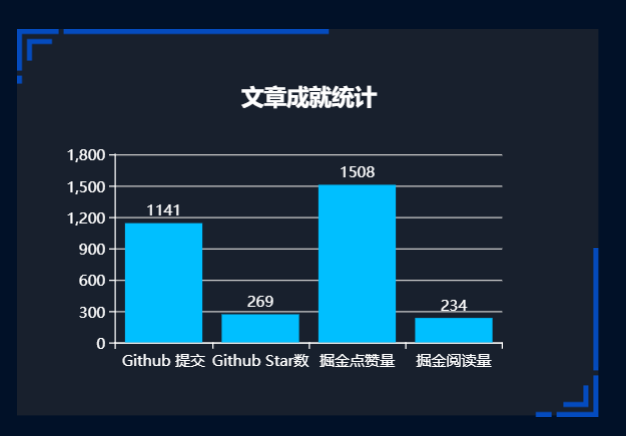
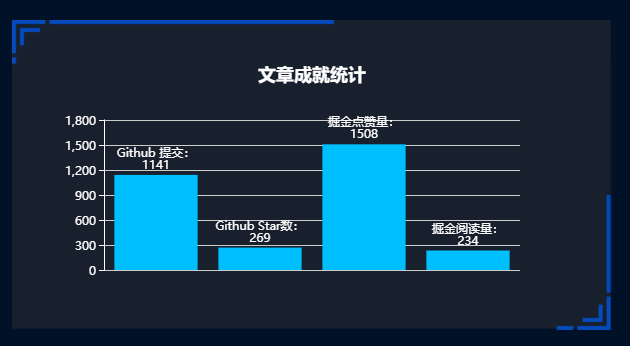
ECharts 打造在线个人简历

diff --git a/JavaScript-library/ECharts/CurriculumVitae.md b/JavaScript-library/ECharts/CurriculumVitae.md
@@ -506,7 +506,7 @@ new Vue({
 
 &emsp;该需要的东东，都差不多准备好了。  
 &emsp;那么，我们的简历，长啥样呢？  
-&emsp;由于手里木有成品 “参考”、“借鉴”，所以去网上看看别人的 ECharts 都长啥样吧：
+&emsp;由于手里木有成品 “参考” 和 “借鉴”，所以去网上看看别人的 ECharts 都长啥样吧：
 
 ![图](../../public-repertory/img/js-ECharts-CurriculumVitae-5.png)
 
@@ -546,6 +546,8 @@ new Vue({
 ```
 
 > 说到这里，有的小伙伴可能觉得复制粘贴或者手写 Vue-Cli 代码特别烦，所以这里推荐使用 VS Code 的插件：`Vue VSCode Snippets`。通过在页面上敲：`vbase`，就可以快速生成 Vue-Cli 的基础代码了。
+
+<br>
 
 &emsp;**然后**，我们在 `index.js` 中定义这些文件，并在 `App.vue` 引用它们：
 
@@ -849,6 +851,8 @@ export default {
 
 &emsp;话不多说，先上代码：
 
+> PartOne.vue
+
 ```
 <template>
   <div class="part-one">
@@ -917,6 +921,8 @@ p {
 
 &emsp;话不多说，先上代码：
 
+> PartTwo.vue
+
 ```
 <template>
   <div class="part-two" id="part-two"></div>
@@ -935,23 +941,32 @@ export default {
     return {};
   },
   mounted() {
-    this.drawTempMap();
+    this.drawECharts();
   },
   methods: {
-    drawTempMap() {
+    drawECharts() {
+
       // 基于准备好的dom，初始化echarts实例
       let myChart = echarts.init(document.getElementById("part-two"));
 
-      // 微信前端好友统计
-      // select: true 可以设置选定
-      let myFriendData = [
+      // 排行前五城市
+      let myFirendCity = [
+        { name: "广州", value: ["113.23", "23.16", "9"] },
+        { name: "深圳", value: ["114.07", "22.62", "12"] },
+        { name: "上海", value: ["121.48", "31.22", "10"] },
+        { name: "西安", value: ["108.95", "34.27", "4"] },
+        { name: "北京", value: ["116.46", "39.92", "12"] },
+      ];
+
+      // 好友分布省份
+      let myFriendProvince = [
         { name: "山东", value: 1 },
         { name: "四川", value: 1 },
         { name: "广东", value: 21 },
         { name: "广西", value: 1 },
         { name: "北京", value: 12 },
         { name: "甘肃", value: 1 },
-        { name: "上海", value: 5 },
+        { name: "上海", value: 10 },
         { name: "陕西", value: 4 },
         { name: "湖北", value: 1 },
         { name: "湖南", value: 1 },
@@ -963,40 +978,88 @@ export default {
         { name: "河南", value: 1 }
       ];
 
-      // 绘制图表
       myChart.setOption({
+        // 标题
         title: {
-          text: "前端微信好友分布",
+          text: "前端好友分布",
           textStyle: {
             color: "#fff"
           },
-          subtext: "jsliang 统计",
+          subtext: "微信统计",
           subtextStyle: {
             color: "#fff"
           },
           x: "center"
         },
-        // 移动显示条数
+        // 移动显示
         tooltip: {
-          trigger: "item"
+          trigger: "item",
+          // 鼠标移动过去显示
+          formatter: function(params) {
+            if (params.value[2] == undefined) {
+              if(!params.name) {
+                return "该地区暂无好友";
+              } else {
+                return params.name + " : " + params.value;
+              }
+            } else {
+              return params.name + " : " + params.value[2];
+            }
+          }
         },
-        // 数量颜色标记
+        // 左边注记
         visualMap: {
-          // 注记
-          // show: false,
-          x: "left",
-          y: "bottom",
-          splitList: [
-            { start: 20, end: 30 },
-            { start: 10, end: 20 },
-            { start: 0, end: 10 }
-          ],
-          color: ["#0bb9f3", "#59d3fc", "#8ce2ff"],
+          text: ["", "好友数"],
+          min: 0,
+          max: 30,
+          // 是否能通过手柄显示
+          calculable: true,
+          inRange: {
+            color: ["#e4e004", "#ff5506", "#ff0000"]
+          },
           textStyle: {
             color: "#fff"
-          },
+          }
         },
+        // geo
+        geo: {
+          map: "china"
+        },
+        // 数据
         series: [
+          // 排行前五城市
+          {
+            name: "排行前五",
+            type: "effectScatter",
+            coordinateSystem: "geo",
+            symbolSize: function(val) {
+              return val[2] * 2;
+            },
+            showEffectOn: "render",
+            rippleEffect: {
+              brushType: "stroke"
+            },
+            hoverAnimation: true,
+            label: {
+              normal: {
+                formatter: "{b}",
+                position: "right",
+                show: true,
+                color: "#fff"
+              }
+            },
+            itemStyle: {
+              normal: {
+                color: "#ddb926",
+                shadowBlur: 10,
+                shadowColor: "#333"
+              }
+            },
+            // 类似于 z-index
+            zlevel: 1,
+            data: myFirendCity,
+          },
+          // 好友分布省份
           {
             name: "好友数",
             type: "map",
@@ -1006,6 +1069,7 @@ export default {
             label: {
               // 显示省份标签
               normal: {
+                formatter: myFirendCity,
                 show: false,
                 textStyle: {
                   color: "#fff"
@@ -1019,18 +1083,18 @@ export default {
             itemStyle: {
               normal: {
                 borderWidth: 0.5, // 区域边框宽度
-                borderColor: "deepskyblue", // 区域边框颜色
-                areaColor: "#fff" // 区域颜色
+                borderColor: "#fff", // 区域边框颜色
+                areaColor: "deepskyblue" // 区域颜色
               },
               // 对应的鼠标悬浮效果
               emphasis: {
                 borderWidth: 1,
                 borderColor: "#fff",
-                areaColor: "deepskyblue"
+                areaColor: "#00aeff"
               }
             },
             // 数据
-            data: myFriendData
+            data: myFriendProvince
           }
         ]
       });
@@ -1205,6 +1269,8 @@ export default {
 
 &emsp;有时候就是想偷懒，也想不起自己还有啥好吹水的了，于是贴个自己的前端文档库的成就吧：
 
+> PartFour.vue
+
 ```
 <template>
   <div class="part-four" id="part-four"></div>
@@ -1246,8 +1312,9 @@ export default {
         },
         // 横轴
         xAxis: {
+          show: false,
           type: "category",
-          data: ["Github 提交", "Github Star数", "掘金点赞量", "掘金阅读量"],
+          data: ["Github 提交：\n1141", "Github Star数：\n269", "掘金点赞量：\n1508", "掘金阅读量：\n234"],
           axisLine: {
             lineStyle: {
               color: "#fff"
@@ -1273,17 +1340,19 @@ export default {
             // 图类型
             type: "bar",
             // 数据
-            data: [1141, 269, 1508,234],
+            data: [1141, 269, 1508, 234],
             // 文本
             label: {
               show: true,
               position: "top",
               color: "#fff",
+              formatter: "{b}"
             },
             // 柱条样式
             itemStyle: {
               color: "deepskyblue"
-            }
+            },
+            zlevel: 1
           }
         ]
       });
@@ -1315,7 +1384,7 @@ export default {
 
 &emsp;简历一大重点，就是工作经验啦：
 
-> partFive.vue
+> PartFive.vue
 
 ```
 <template>
@@ -1370,7 +1439,9 @@ a:hover {
 
 <br>
 
-&emsp;除了工作经验，我们还需要 show 一 show 我们的编程技能都有什么：
+&emsp;除了工作经验，我们还需要 show 一下我们的编程技能都有什么：
+
+> PartSix.vue
 
 ```
 <template>
@@ -1421,7 +1492,9 @@ export default {};
 
 <br>
 
-&emsp;最后，当然要表明我们的求职意向，好让 HR 小姐姐知道我们想要什么啦：
+&emsp;最后，当然要表明我们的求职意向，好让 HR 小姐姐知道我们想要什么啦~
+
+> PartSeven.vue
 
 ```
 <template>
@@ -1489,7 +1562,7 @@ export default {};
 * “哇，Vue 这样写的吗？你懂不懂 Vue？”
 * “哇，……”
 
-&emsp;enm......一般都不会回复喷子，哈哈~
+&emsp;enm......所以我一般都不会回复喷子滴，哈哈~
 
 &emsp;**最后，在此祝小伙伴们找到更好的工作~**
 
